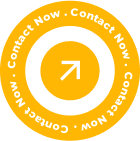
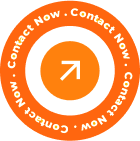
css change

diff --git a/index.html b/index.html
@@ -3373,13 +3373,13 @@ use of space.">
                             <!-- FAQ Item End -->
                             <!-- FAQ Item Start -->
                             <div class="accordion-item wow fadeInUp" data-wow-delay="0.8s">
-                                <h2 class="accordion-header" id="heading5">
+                                <h2 class="accordion-header" id="heading6">
                                     <button class="accordion-button collapsed" type="button" data-bs-toggle="collapse"
-                                        data-bs-target="#collapse5" aria-expanded="false" aria-controls="collapse5">
+                                        data-bs-target="#collapse6" aria-expanded="false" aria-controls="collapse6">
                                         Do you provide Services in all over India?
                                     </button>
                                 </h2>
-                                <div id="collapse5" class="accordion-collapse collapse" aria-labelledby="heading5"
+                                <div id="collapse6" class="accordion-collapse collapse" aria-labelledby="heading6"
                                     data-bs-parent="#faqaccordion">
                                     <div class="accordion-body">
                                         <p>Our services area that we provide:

diff --git a/css/custom.css b/css/custom.css
@@ -1,5 +1,5 @@
 :root{
-	--primary-color			: #1E1E1E;
+	--primary-color			: #00235a;
 	--secondary-color		: #F8F8F8;
 	--text-color			: #707070;
 	--accent-color			: #ff5e14;
@@ -378,6 +378,7 @@ body{
 	background-size: cover;
 	width: 36px;
 	height: 7px;
+	filter: hue-rotate(321deg);
 }
 
 .section-title h1{
@@ -1701,6 +1702,7 @@ header.main-header .header-sticky.active{
 	height: 24px;
 	color: var(--white-color);
 	transition: all 0.3s ease-in-out;
+	filter: hue-rotate(321deg);
 }
 
 .our-faq-section .accordion-item .accordion-button.collapsed::after{
@@ -1779,6 +1781,7 @@ header.main-header .header-sticky.active{
 .cta-experience-circle img{
 	max-width: 140px;
 	animation: experiencerotate 30s infinite linear;
+	filter: hue-rotate(321deg);
 }
 
 @keyframes experiencerotate{
@@ -1865,6 +1868,7 @@ header.main-header .header-sticky.active{
     background-size: cover;
     transform: translate(0px, -50%);
     transition: all 0.4s ease-in-out;
+	filter: hue-rotate(321deg);
 }
 
 .post-readmore-btn a:hover:before{
